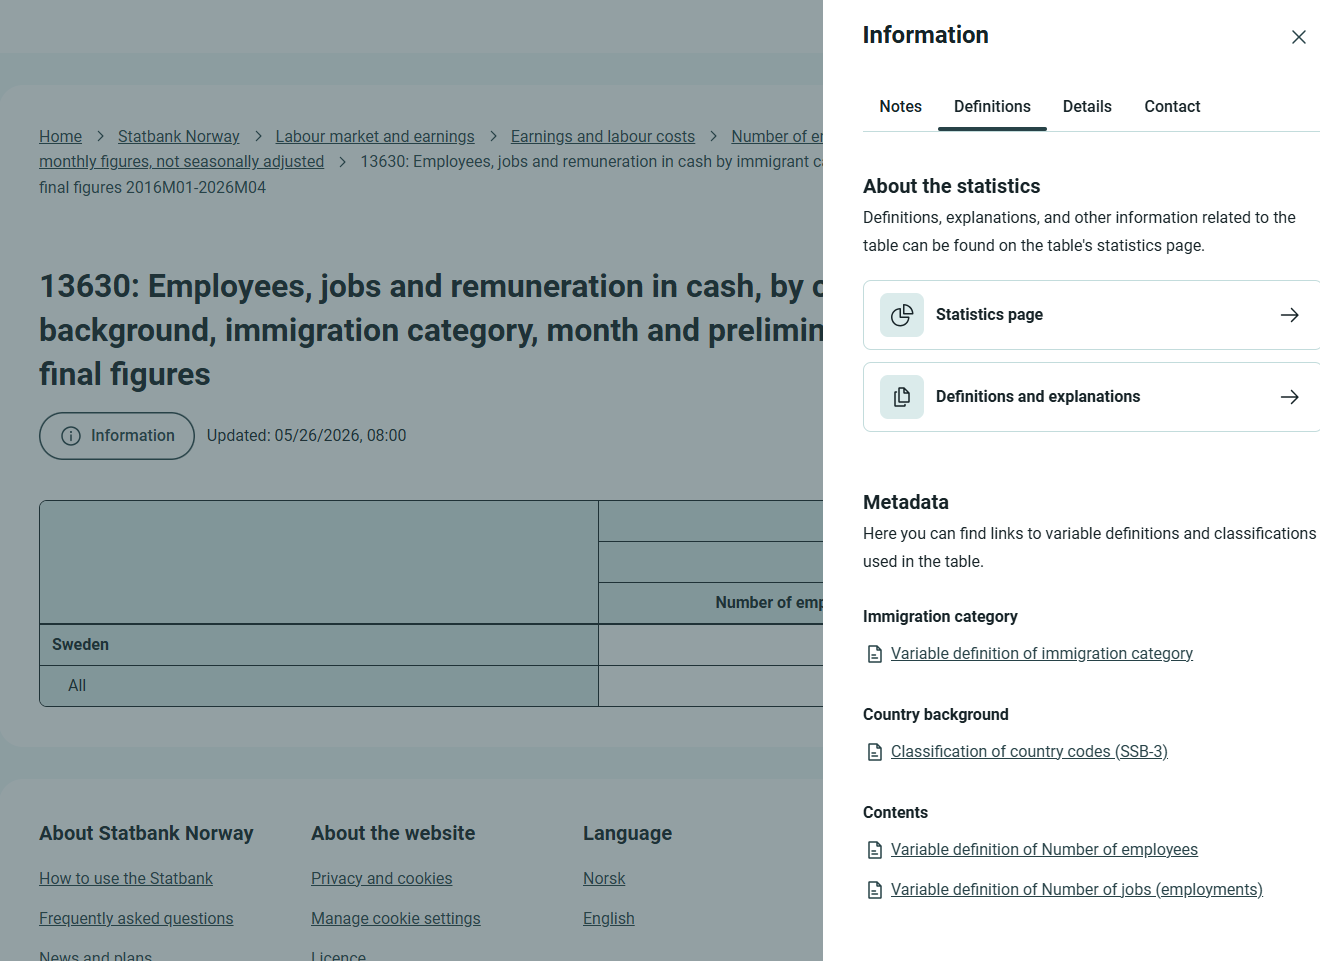
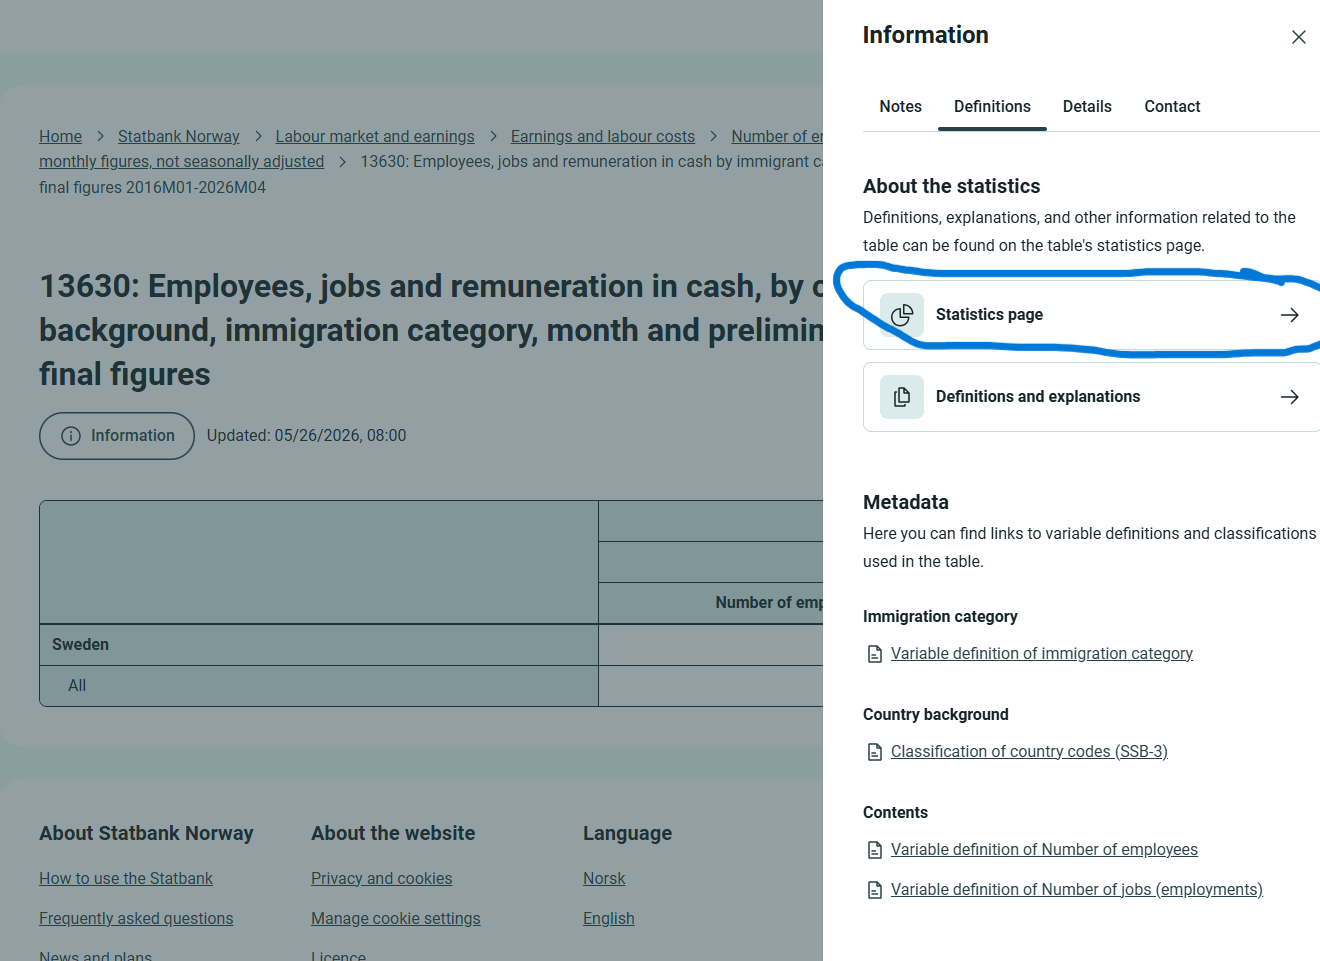
More doc

Changed region(s): [[0.6833, 0.3434, 1.0, 0.3746], [0.6833, 0.281, 1.0, 0.3122], [0.6212, 0.2497, 0.6833, 0.3434]]

diff --git a/docs/Other/metaid.md b/docs/Other/metaid.md
@@ -5,144 +5,174 @@ The usecase is to provide content in the Information pane of the PxWeb gui:
 
   ![Information pane in PxWeb](MetaIdInGUI_1.png?raw=true)
 
+If you click on "Statistics page" you go to https://www.ssb.no/en/arblonn . 
+The response from the api contains the following information for this link:
 
-
-Information for a link includes:
 ```
-href:  an url e.g. "https://www.ssb.no/en/aku" , pointing to a resource
-label: text describing the resource, like "Statistics homepage". 
+ "link": {
+    "related": [
+      {
+        "extension": {
+          "relation": "statistics-homepage",
+          "metaid": "KORTNAVN:arblonn"
+        },
+        "href": "https://www.ssb.no/en/arblonn",
+        "label": "Statistics page",
+        "type": "text/html"
+      },
+```
+
+So information for a link includes:
+```
+href:  an url e.g. "https://www.ssb.no/en/arblonn" , pointing to a resource
+label: text describing the resource, like "Statisticspage". 
 relation: some description of how the resource is related to the table , like "statistics-homepage". 
 
 type: the mime type of the resource, typically "text/html", but could also be e.g. markdown. 
+metaid: the META-ID that is the source of the link, e.g. "KORTNAVN:arblonn". 
 ```
 
 
-The datasource of the api has a propperty called META-ID. You can attach a META-ID to a table, variable or value.
-The META-ID-values are urns e.g. "STATISTICS:aku". The api transforms it to href,type,label and relation according to rules
-given in a config file.
+The datasource of the api has a propperty called META-ID. You can attach a META-ID to a table, variable or value, which gets you a link on the table, a variable or a value.
+The META-ID-values are urns e.g. "KORTNAVN:arblonn". If you want to attach more than one urn use a comma to separate them.
 
-## META-ID
-The purpose of the META-ID is to identify an external resource, typically an external metadata system. 
-In a Px-file , it may look like:
-```
-META-ID(“my_variable”)=”classifications:region”;
-```
-(For more information about the META-ID keyword, see the PX-file format documentation.)
+The api transforms it to href,type,label and relation according to rules
+given in a config file called Metaid.config.
 
-The META-ID identifies which metadata system the definition resides in and also holds the arguments to navigate to the specific definition within that metadata system.
-The META-ID can also hold information about more than one metadata system if definitions exist in multiple metadata system.
-```
-META-ID(“my_variable”)=”METASYS1:arg1:arg2,METASYS2:arg1:arg2”;
-```
-
-When pxwebapi finds META-ID fields it uses information from a config files to create links.
 ## Metaid.config
-If links to metdata systems shall be created, the metaid.config file must be placed in the root directory of the application. 
-In metadid.config you define the URL signatures to your metadata system(s). 
-The URL signatures are divided into three sections in the metaid.config file for attachments at tables, variables and values. The sections are be named:
+For links to metadata systems shall be created, the metaid.config file must be placed in the root directory of the application. 
+In metadid.config the rules are divided into three sections in the metaid.config file for attachments at tables, variables and values. The sections are be named:
 * onTable
 * onVariable
 * onValue
 
-The sections are structured in the same way, each contain a list of Metadata systems.
-Each Metadata system has an ID and list of URL signatures grouped by what they contain or how they relate to the table and their content-type. 
-Each URL signature contains information about:
+A "rule" is called a metaSystem and is identified by an id which is a string.
+When the api finds a META-ID, it loops all metasystems for the attachment level and see if the META-ID starts with the id of the metasystem. If so, output is produced.
+
+The rest of the META-ID after the id of the metasystem is considered to be arguments. If the META-ID value is KORTNAVN:arblonn and there is a metasystem with id KORTNAVN, the argument is arblonn. 
+If the META-ID value is KORTNAVN:arblonn:arg2 and there is a metasystem with id KORTNAVN, the arguments are arblonn and arg2.
+
+In addtion to the id, each Metadata system has configuration for 
+* relation to the table, variable or value it is attached to 
 * Language
 * Label (text) format
 * URL format
 
-The URL format shall contain placeholders {0}, {1} … {n} where the arguments in the META-ID will be inserted. 
-The label format may contain placeholders depending on the attachment level, for values {0} will be replaces by the name of the variable and {1}   by the name of the value.
+The URL format normally contains placeholders {0}, {1} … {n} where the arguments from the META-ID will be inserted. 
+The label format may contain placeholders depending on the attachment level, for values {0} will be replaces by the name of the variable and {1} by the name of the value.
 For variables its just {0} for the name of the variable. For label formats in the onTable section there are no placeholdes.
+(A metasystem may contain the name of a labelsFile. This is for cases where a good text cannot be generated and need to be handwritten.)
 
 For example this fragment of the config file:
 ```
 <?xml version="1.0"?>
 <metaId>
   <onTable>
-    <metaSystem id="STATISTICS">
+    <metaSystem id="KORTNAVN">
       <relationalGroup relation="statistics-homepage" type="text/html">
         <link pxLang="no" labelStringFormat="Statistikkens hjemmeside" urlStringFormat="https://www.ssb.no/{0}" />
-        <link pxLang="en" labelStringFormat="Statistics homepage" urlStringFormat="https://www.ssb.no/en/{0}" />
+        <link pxLang="en" labelStringFormat="Statistics page" urlStringFormat="https://www.ssb.no/en/{0}" />
       </relationalGroup>
      ... 
  
 ```
 
-When the api finds this META-ID "STATISTICS:aku", on table level, it creates
+When the api finds this META-ID "KORTNAVN:arblonn", on table level, it creates
 ```
-"relation": "statistics-homepage"
-"href": "https://www.ssb.no/en/aku"
-"label": "Statistics homepage"
-"type": "text/html"
+ "link": {
+    "related": [
+      {
+        "extension": {
+          "relation": "statistics-homepage",
+          "metaid": "KORTNAVN:arblonn"
+        },
+        "href": "https://www.ssb.no/en/arblonn",
+        "label": "Statistics page",
+        "type": "text/html"
+      },
 ```
 for an english request.
 
-This is done by looping all metasystems for the attachment level and see if the META-ID starts with the id of the metasystem. If so, output is produced.
-The rest of the META-ID after the id of the metasystem is considered to be arguments.
-This matching mechanism allows for colons in the ids of the metasystems. 
 
 Here is a full metaid.config:
 ```
 <?xml version="1.0"?>
-<metaId>
+<metaId labelFilesFolder="wwwroot\cnmm-database\metaid">
   <onTable>
-    <metaSystem id="STATISTICS">
+    <metaSystem id="KORTNAVN">
       <relationalGroup relation="statistics-homepage" type="text/html">
-        <link pxLang="no" labelStringFormat="Statistikkens hjemmeside" urlStringFormat="https://www.ssb.no/{0}" />
-        <link pxLang="en" labelStringFormat="Statistics homepage" urlStringFormat="https://www.ssb.no/en/{0}" />
+        <link pxLang="no" labelStringFormat="Statistikkside" urlStringFormat="https://www.ssb.no/{0}" />
+        <link pxLang="en" labelStringFormat="Statistics page" urlStringFormat="https://www.ssb.no/en/{0}" />
       </relationalGroup>
       <relationalGroup relation="about-statistics" type="text/html">
-         <link pxLang="no" labelStringFormat="Om statistikken" urlStringFormat="https://www.ssb.no/{0}#om-statistikken" />
-         <link pxLang="en" labelStringFormat="About the statistics" urlStringFormat="https://www.ssb.no/en/{0}#om-statistikken" />
+         <link pxLang="no" labelStringFormat="Definisjoner og forklaringer" urlStringFormat="https://www.ssb.no/{0}#om-statistikken" />
+         <link pxLang="en" labelStringFormat="Definitions and explanations" urlStringFormat="https://www.ssb.no/en/{0}#om-statistikken" />
       </relationalGroup>
-    </metaSystem> 
+    </metaSystem>
   </onTable>
   <onVariable>
     <metaSystem id="urn:ssb:classification:klass">
-       <relationalGroup relation="definition-classification" type="text/html">   
-         <link pxLang="no" labelStringFormat="Klassifikasjon for {0}." urlStringFormat="https://www.ssb.no/klass/klassifikasjoner/{0}" />
-         <link pxLang="en" labelStringFormat="Classification for {0}." urlStringFormat="https://www.ssb.no/en/klass/klassifikasjoner/{0}" />
+       <relationalGroup relation="definitions" type="text/html">   
+         <link pxLang="no" labelsFile="klass_map_no.txt" labelStringFormat="Klassifikasjon for {0}." urlStringFormat="https://www.ssb.no/klass/klassifikasjoner/{0}" />
+         <link pxLang="en" labelsFile="klass_map_en.txt" labelStringFormat="Classification for {0}." urlStringFormat="https://www.ssb.no/en/klass/klassifikasjoner/{0}" />
        </relationalGroup>  
     </metaSystem>
     <metaSystem id="urn:ssb:conceptvariable:vardok">
-      <relationalGroup relation="definition-classification" type="text/html">   
-         <link pxLang="no" labelStringFormat="Definisjon av {0}." urlStringFormat="https://www.ssb.no/a/metadata/conceptvariable/vardok/{0}/nb" />
-         <link pxLang="en" labelStringFormat="Definition of {0}." urlStringFormat="https://www.ssb.no/a/metadata/conceptvariable/vardok/{0}/en" />
+      <relationalGroup relation="definitions" type="text/html">   
+         <link pxLang="no" labelStringFormat="Variabeldefinisjon av {0}" urlStringFormat="https://www.ssb.no/a/metadata/conceptvariable/vardok/{0}/nb" />
+         <link pxLang="en" labelStringFormat="Variable definition of {0}" urlStringFormat="https://www.ssb.no/a/metadata/conceptvariable/vardok/{0}/en" />
       </relationalGroup>
     </metaSystem>
   </onVariable>
   <onValue>
     <metaSystem id="urn:ssb:conceptvariable:vardok">
-      <relationalGroup relation="definition-value" type="text/html">
-        <link pxLang="no" labelStringFormat="Definisjon av {1} for vaiabel {0}." urlStringFormat="https://www.ssb.no/a/metadata/conceptvariable/vardok/{0}/nb" />
-        <link pxLang="en" labelStringFormat="Definition of {1} for vaiable {0}." urlStringFormat="https://www.ssb.no/a/metadata/conceptvariable/vardok/{0}/en" />
+      <relationalGroup relation="definitions" type="text/html">
+        <link pxLang="no" labelStringFormat="Variabeldefinisjon av {1}" urlStringFormat="https://www.ssb.no/a/metadata/conceptvariable/vardok/{0}/nb" />
+        <link pxLang="en" labelStringFormat="Variable definition of {1}" urlStringFormat="https://www.ssb.no/a/metadata/conceptvariable/vardok/{0}/en" />
       </relationalGroup>
     </metaSystem>
     <metaSystem id="urn:ssb:contextvariable:common">
-      <relationalGroup relation="definition-value" type="text/html">
-        <link pxLang="no" labelStringFormat="Definisjon av {1} (Kostra)." urlStringFormat="https://www.ssb.no/kompis/statbank/?id={0}&amp;ver={1}&amp;val={2}" />
-        <link pxLang="en" labelStringFormat="Definition of {1} (Kostra)." urlStringFormat="https://www.ssb.no/kompis/statbank/?id={0}&amp;ver={1}&amp;val={2}" />
+      <relationalGroup relation="definitions" type="text/html">
+        <link pxLang="no" labelStringFormat="Variabeldefinisjon av {1} (KOSTRA)" urlStringFormat="https://www.ssb.no/kompis/statbank/?id={0}&amp;ver={1}&amp;val={2}&amp;lang=no" />
+        <link pxLang="en" labelStringFormat="Variable definition of {1} (KOSTRA)" urlStringFormat="https://www.ssb.no/kompis/statbank/?id={0}&amp;ver={1}&amp;val={2}&amp;lang=en" />
       </relationalGroup>  
     </metaSystem>
   </onValue>
 </metaId>
 
-``` 
+```
+
 Note: 
-* The metaSystem STATISTICS creates 2 links per language. 
+* The metaSystem KORTNAVN creates 2 links per language. 
 * The last metaSystem on value does not use the name of the variable, only the name of the value.
 
-## In the gui
-The usecase is to provide content in pxweb2gui for the areas shown in Figma_infomation_defs.png
+### Labels file
+```
+<metaId labelFilesFolder="wwwroot\cnmm-database\metaid">
+```
+and
+```
+<onVariable>
+    <metaSystem id="urn:ssb:classification:klass">
+       <relationalGroup relation="definitions" type="text/html">   
+         <link pxLang="no" labelsFile="klass_map_no.txt"
+```
+work together to specify a file wwwroot\cnmm-database\metaid\klass_map_no.txt
 
-  ![Information pane in figma](Figma_infomation_defs.png?raw=true)
+These files looks like: 
+```
+urn:ssb:classification:klass:1 Standard for delområde- og grunnkretsinndeling
+urn:ssb:classification:klass:2 Standard for kjønn
+urn:ssb:classification:klass:3 Standard for gruppering av hjelpe- og omsorgstiltak i barnevernet
+urn:ssb:classification:klass:4 Standard for regionale spesialkoder
+urn:ssb:classification:klass:5 Standard for PRODCOM koder
+```
+If the META-ID is found here the text after the urn is used and  the labelStringFormat is ignored.
 
 
-
-Figma_infomation_defs.png: 
-  to get content for "area-1" , links with relation="statistics-homepage" on root is used
-  to get content for "area-2" , links with relation="about-statistics" on root
-  to get content for "area-3" , loop variables and look for relations starting with "definition-"
-  
-  
+## META-ID 
+In a Px-file , it may look like:
+```
+META-ID(“my_variable”)=”classifications:region”;
+```
+(For more information about the META-ID keyword, see the PX-file format documentation.)